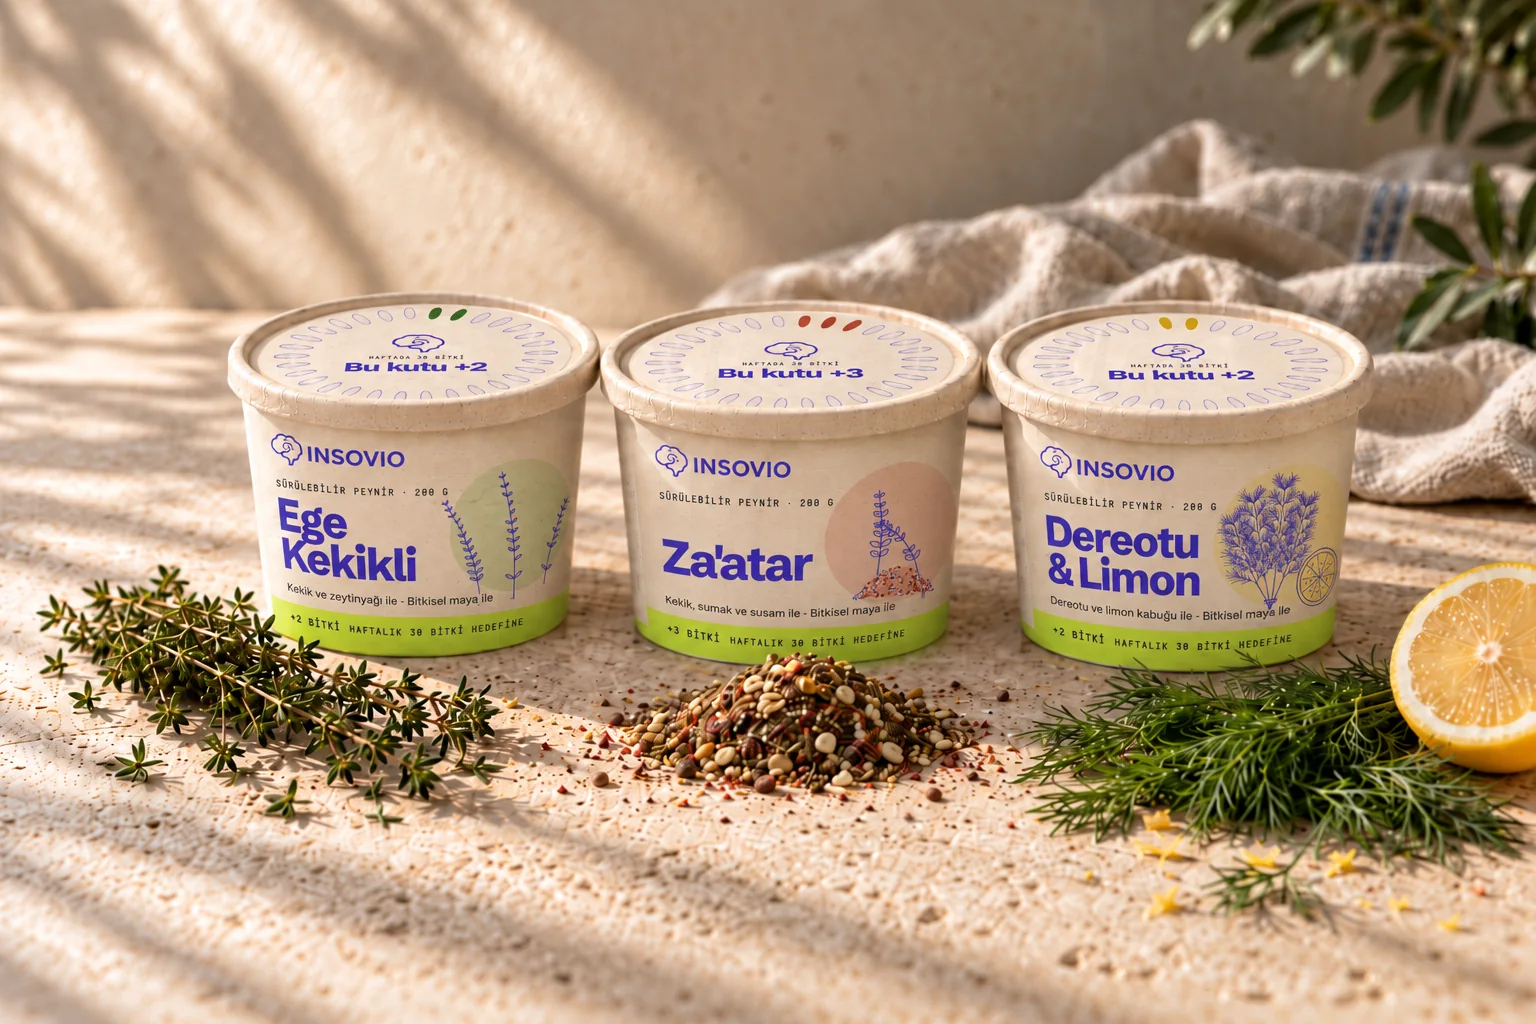
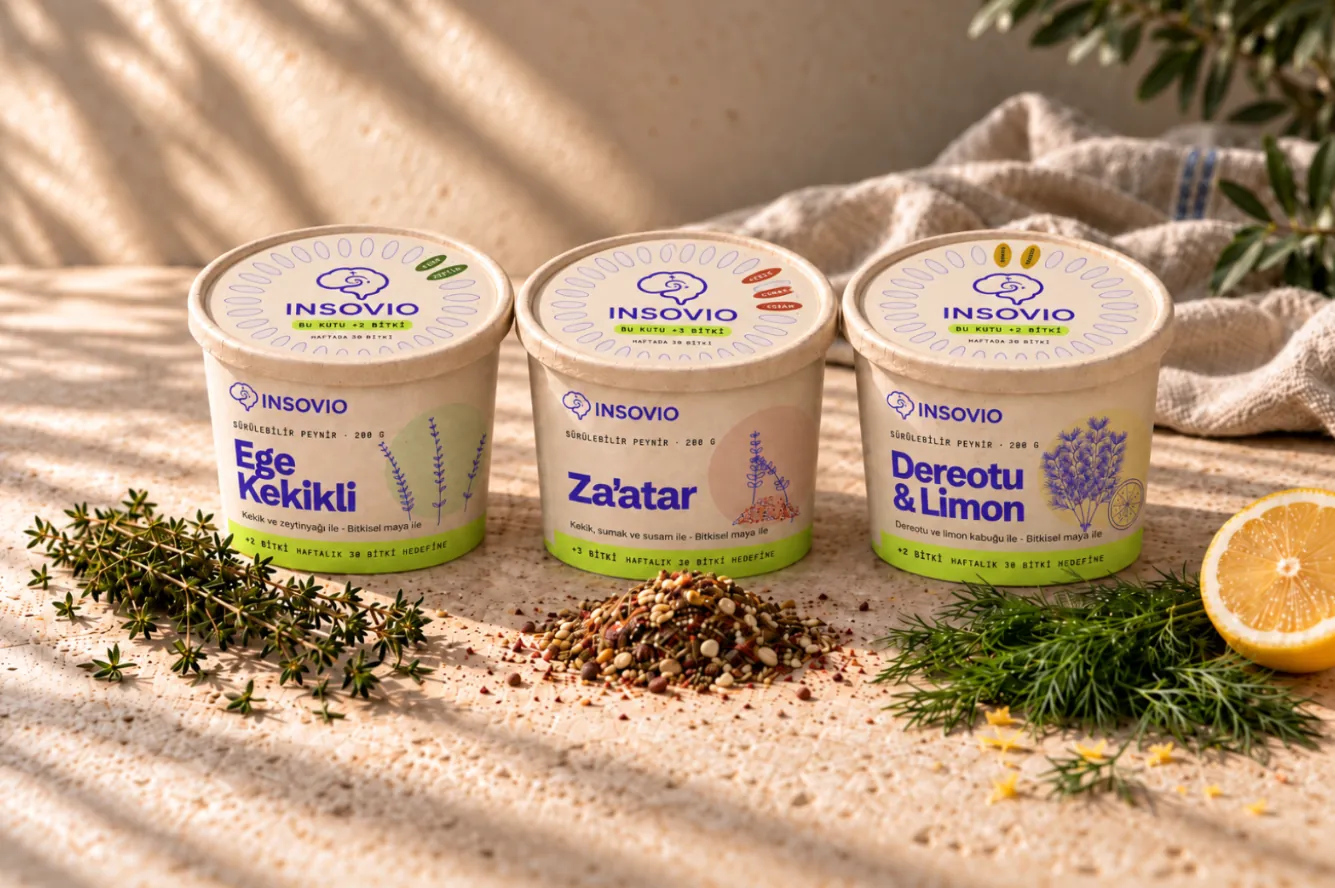
New wheel-lid product photos, English hero and cheese photos
Claude-Session: https://claude.ai/code/session_01Wy1JEM3Zr18T6Qt79KhScu

diff --git a/index.html b/index.html
@@ -511,7 +511,7 @@ p { margin: 0; }
   <section class="hero">
     <div class="wrap">
       <div class="hero-card">
-        <img class="hero-bg" src="img/konsept-giris.webp" width="1335" height="888" alt="Güneşli traverten tezgahta açık INSOVIO Ege Kekikli Sürülebilir Peynir kasesi, kapağı yanında; peynir sürülmüş ekmek, kekik, zeytin ve domates salatalık" data-i18n-attr="alt:alt.hero">
+        <img class="hero-bg" src="img/konsept-giris.webp" width="1335" height="888" alt="Güneşli traverten tezgahta açık INSOVIO Ege Kekikli Sürülebilir Peynir kasesi, kapağı yanında; peynir sürülmüş ekmek, kekik, zeytin ve domates salatalık" data-i18n-attr="alt:alt.hero;src:img.hero">
         <span class="concept-tag" data-i18n="concept">Konsept görsel</span>
         <a class="promo" href="#etkinlik">
           <img src="img/etkinlik.webp" width="1007" height="941" alt="">
@@ -578,7 +578,7 @@ p { margin: 0; }
     <div class="product-band">
       <div class="wrap product">
         <figure class="product-img media">
-          <img src="img/konsept-peynir.webp" width="1536" height="1024" loading="lazy" alt="Açık bir INSOVIO Ege Kekikli Sürülebilir Peynir kâğıt kasesi; yanında peynir sürülmüş ekmek, kekik, zeytin ve domates salatalık" data-i18n-attr="alt:alt.cheese">
+          <img src="img/konsept-peynir.webp" width="1335" height="888" loading="lazy" alt="Açık bir INSOVIO Ege Kekikli Sürülebilir Peynir kâğıt kasesi; yanında peynir sürülmüş ekmek, kekik, zeytin ve domates salatalık" data-i18n-attr="alt:alt.cheese;src:img.cheese">
           <span class="concept-tag" data-i18n="concept">Konsept görsel</span>
         </figure>
         <div class="product-copy">
@@ -602,7 +602,7 @@ p { margin: 0; }
           <p data-i18n="fl.p">Sürülebilir peynirimizi Anadolu ve Akdeniz mutfağının kuru otları ve baharatlarıyla çeşitlendiriyoruz. Her çeşit, haftalık bitki sayına birkaç bitki daha ekliyor.</p>
         </div>
         <figure class="flavors-img media">
-          <img src="img/konsept-cesitler.webp" width="1536" height="1024" loading="lazy" alt="Üç INSOVIO Sürülebilir Peynir çeşidi: Ege Kekikli, Za'atar ve Dereotu ile Limon" data-i18n-attr="alt:alt.flavors">
+          <img src="img/konsept-cesitler.webp" width="1335" height="888" loading="lazy" alt="Üç INSOVIO Sürülebilir Peynir çeşidi: Ege Kekikli, Za'atar ve Dereotu ile Limon" data-i18n-attr="alt:alt.flavors;src:img.flavors">
           <span class="concept-tag" data-i18n="concept">Konsept görsel</span>
         </figure>
         <ul class="flavors-grid">
@@ -626,7 +626,7 @@ p { margin: 0; }
           <p data-i18n="lv.p">Un yerine sebze ve baklagillerle yapılan, katkısız ve koruyucusuz üretmeyi hedeflediğimiz lavaşlar. Her biri haftalık bitki çeşitliliğine katkı sağlıyor. İlk seride malzemesi en az, tamamen bitkisel ve üretimi en kolay olan mercimek ve nohut unu lavaşlarıyla başlıyoruz. Kurucumuzun yüksek lisans çalışması da katkısız ve koruyucusuz ürün geliştirme üzerine.</p>
         </div>
         <figure class="media">
-          <img src="img/konsept-lavas.webp" width="1536" height="1024" loading="lazy" alt="Yuvarlak pencereli kâğıt kılıf içinde INSOVIO Kırmızı Mercimek Lavaş; yanında bir kase kırmızı mercimek ve maydanoz" data-i18n-attr="alt:alt.lavas">
+          <img src="img/konsept-lavas.webp" width="1335" height="888" loading="lazy" alt="Yuvarlak pencereli kâğıt kılıf içinde INSOVIO Kırmızı Mercimek Lavaş; yanında bir kase kırmızı mercimek ve maydanoz" data-i18n-attr="alt:alt.lavas;src:img.lavas">
           <span class="concept-tag" data-i18n="concept">Konsept görsel</span>
         </figure>
       </div>
@@ -940,6 +940,8 @@ p { margin: 0; }
     'hero.h1': 'The <em>delicious</em> side of healthy aging.',
     'hero.lead': 'We develop functional foods you will enjoy every day, grounded in microbiota-based clinical research. Our focus is living well and healthy aging, with brain health as a key part of it.',
     'hero.secondary': 'Try the plant counter',
+    'img.hero': 'img/en-konsept-giris.webp',
+    'img.cheese': 'img/en-konsept-peynir.webp',
     'alt.hero': 'Open INSOVIO Aegean Thyme spreadable cheese tub on a sunlit travertine counter, lid beside it, with bread, thyme, olives and cucumber and tomatoes',
     'why.e': 'Why INSOVIO',
     'w1.a': 'Shelves full of supplements', 'w1.b': 'We make everyday foods functional.',
